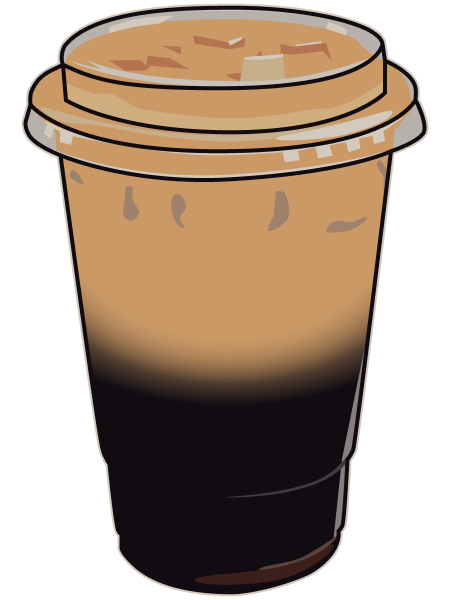
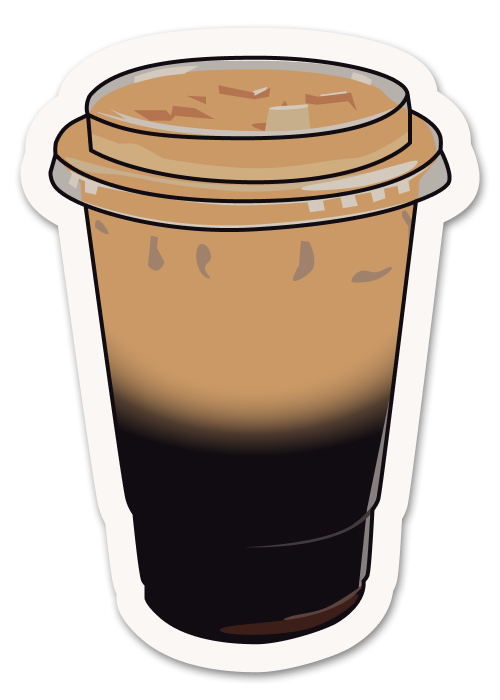
Update about section

diff --git a/css/design.css b/css/design.css
@@ -234,13 +234,12 @@
     padding: 0;
     border: 8px solid var(--green);
     background: var(--light-green); 
-    box-shadow: 0px 4px 10px var(--black-50);
-    animation-name: none;
-    animation-duration: 0s;
+    box-shadow: 0px 2px 5px var(--black-50);
+    rotate: 0deg;
 
     .dark & {
         background: var(--dark-green);
-        box-shadow: 0px 4px 10px rgba(0, 0, 0, 0.5);
+        box-shadow: 0px 2px 5px rgba(0, 0, 0, 0.5);
     }
 
     &::before {
@@ -269,9 +268,11 @@
 }
 
 .hide-hobbies #my-card{
-    animation-name: card-tilt;
-    animation-duration: 5s;
-    animation-iteration-count: infinite;
+    rotate: -4deg;
+    box-shadow: 0px 4px 10px var(--black-50);
+    .dark & {
+        box-shadow: 0px 4px 10px rgba(0, 0, 0, 0.5);
+    }
 }
 
 .my-cards {
@@ -280,7 +281,6 @@
 }
 
 .my-cards .hobby {
-    max-width: 200px;
     position: absolute;
     z-index: -2;
     opacity: 1;
@@ -297,57 +297,49 @@
     rotate: 15deg;
     bottom: -20%; 
     right: -15%;
-
-    & img {
-        border: 1px solid var(--white-10);
-    }
 }
 
 .hobby:nth-child(3 of .hobby) {
-    max-width: 120px;
     rotate: 10deg;
-    top: -20%; 
+    top: -22%; 
     right: 0;
 }
 
 @media only screen and (max-width: 1024px) {
     .my-cards {
-        margin: 120px auto;
-    }
-
-    .my-cards.hide-hobbies{
-        margin: 0 auto;
+        margin: 0px auto;
+        padding: 120px 0;
     }
 
     .hobby:nth-child(1 of .hobby) {
-        top: -45%; 
-        left: 10%;
+        top: -7%; 
+        left: 5%;
     }
 
     .hobby:nth-child(2 of .hobby) {
-        bottom: -45%; 
+        bottom: -8%; 
         right: 15%;
     }
 
     .hobby:nth-child(3 of .hobby) {
-        top: -30%; 
-        right: -5%;
+        top: 0%; 
+        right: 0%;
     }
 }
 
 .my-cards.hide-hobbies .hobby{
     rotate: 0deg;
     &:nth-child(1 of .hobby) {
-        top: 0; 
+        top: 10%; 
         left: 20%;
     }
     &:nth-child(2 of .hobby) {
-        bottom: 0; 
+        bottom: 20%; 
         right: 20%;
     }
 
     &:nth-child(3 of .hobby) {
-        top: 0%; 
+        top: 20%; 
         right: 20%;
     }
 }
@@ -409,12 +401,6 @@
     60% {opacity: 1;}
 }
 
-@keyframes card-tilt{
-    0% {rotate: -4deg;}
-    10% {rotate: 1deg;}
-    20% {rotate: -4deg;}
-}
-
 @keyframes laptop-tilt{
     0% {rotate: 0deg;}
     5% {rotate: -3deg;}
@@ -422,7 +408,6 @@
     15% {rotate: 0deg;}
 }
 /* ////////// */
-
 
 /* SANDBOX */
 #sandbox{
@@ -494,14 +479,6 @@
     .project a:hover .title{
         text-decoration: underline; color: var(--dark-green);
         .dark & {color: var(--light-green);}
-    }
-
-    #about .persona-card:hover{
-        rotate: 0deg;
-        box-shadow: 0px 2px 5px var(--black-50);
-        .dark & {
-            box-shadow: 0px 2px 5px rgba(0, 0, 0, 0.5);
-        }
     }
 }
 /* ////////// */

diff --git a/js/homepage.js b/js/homepage.js
@@ -64,41 +64,18 @@ aboutBtns[1].addEventListener("click", () => {
 
 
 // ABOUT PROFILE PICTURE
-const myCard = document.querySelector(".my-cards .persona-card")
+const myCard = document.querySelector(".my-cards")
 const cardObserver = new IntersectionObserver((entries) => {
     entries.forEach((entry) => {
         if (entry.isIntersecting) {
-            entry.target.parentElement.classList.remove("hide-hobbies");
+            entry.target.classList.remove("hide-hobbies");
         } 
         else {
-            entry.target.parentElement.classList.add("hide-hobbies");
+            entry.target.classList.add("hide-hobbies");
         }
     }) 
 }, {rootMargin: "-30% 0px -30% 0px"})
-
-function hoverCard() {
-    myCard.addEventListener("mouseover", () => {
-        myCard.parentElement.classList.remove("hide-hobbies");
-    })
-    myCard.addEventListener("mouseleave", () => {
-        myCard.parentElement.classList.add("hide-hobbies");
-    })
-}
-
-function checkCardHover(y) {
-    if (!y.matches) {cardObserver.observe(myCard);} 
-    else {hoverCard()}
-}
-
-function checkCardDevice(x) {
-    if (x.matches) {cardObserver.observe(myCard);} 
-    else {hoverCard()}
-}
-
-checkCardHover(y)
-checkCardDevice(x)
-y.addEventListener("change", () => {checkCardHover(y)});
-x.addEventListener("change", () => {checkCardDevice(x)});
+cardObserver.observe(myCard);
 //////////
 
 

diff --git a/index.html b/index.html
@@ -189,7 +189,7 @@
 
                             <div class="hobby">
                                 <p class="font-300 text-center text-2">what I'm reading</p>
-                                <img src="img/book.png" width="200" height="300" alt="Book cover of the novel Six Stories by Matt Wesolowski.">
+                                <img src="img/book.png" width="210" height="294" alt="Book cover of the novel Six Stories by Matt Wesolowski.">
                             </div>
 
                             <div class="hobby">
@@ -198,7 +198,7 @@
                             </div>
 
                             <div class="hobby">
-                                <img src="img/coffee.png" width="120" height="160" alt="Vector drawing of a cup of coffee.">
+                                <img src="img/coffee.png" width="130" height="182" alt="Vector drawing of a cup of coffee.">
                             </div>
                         </div>
                     </div>
